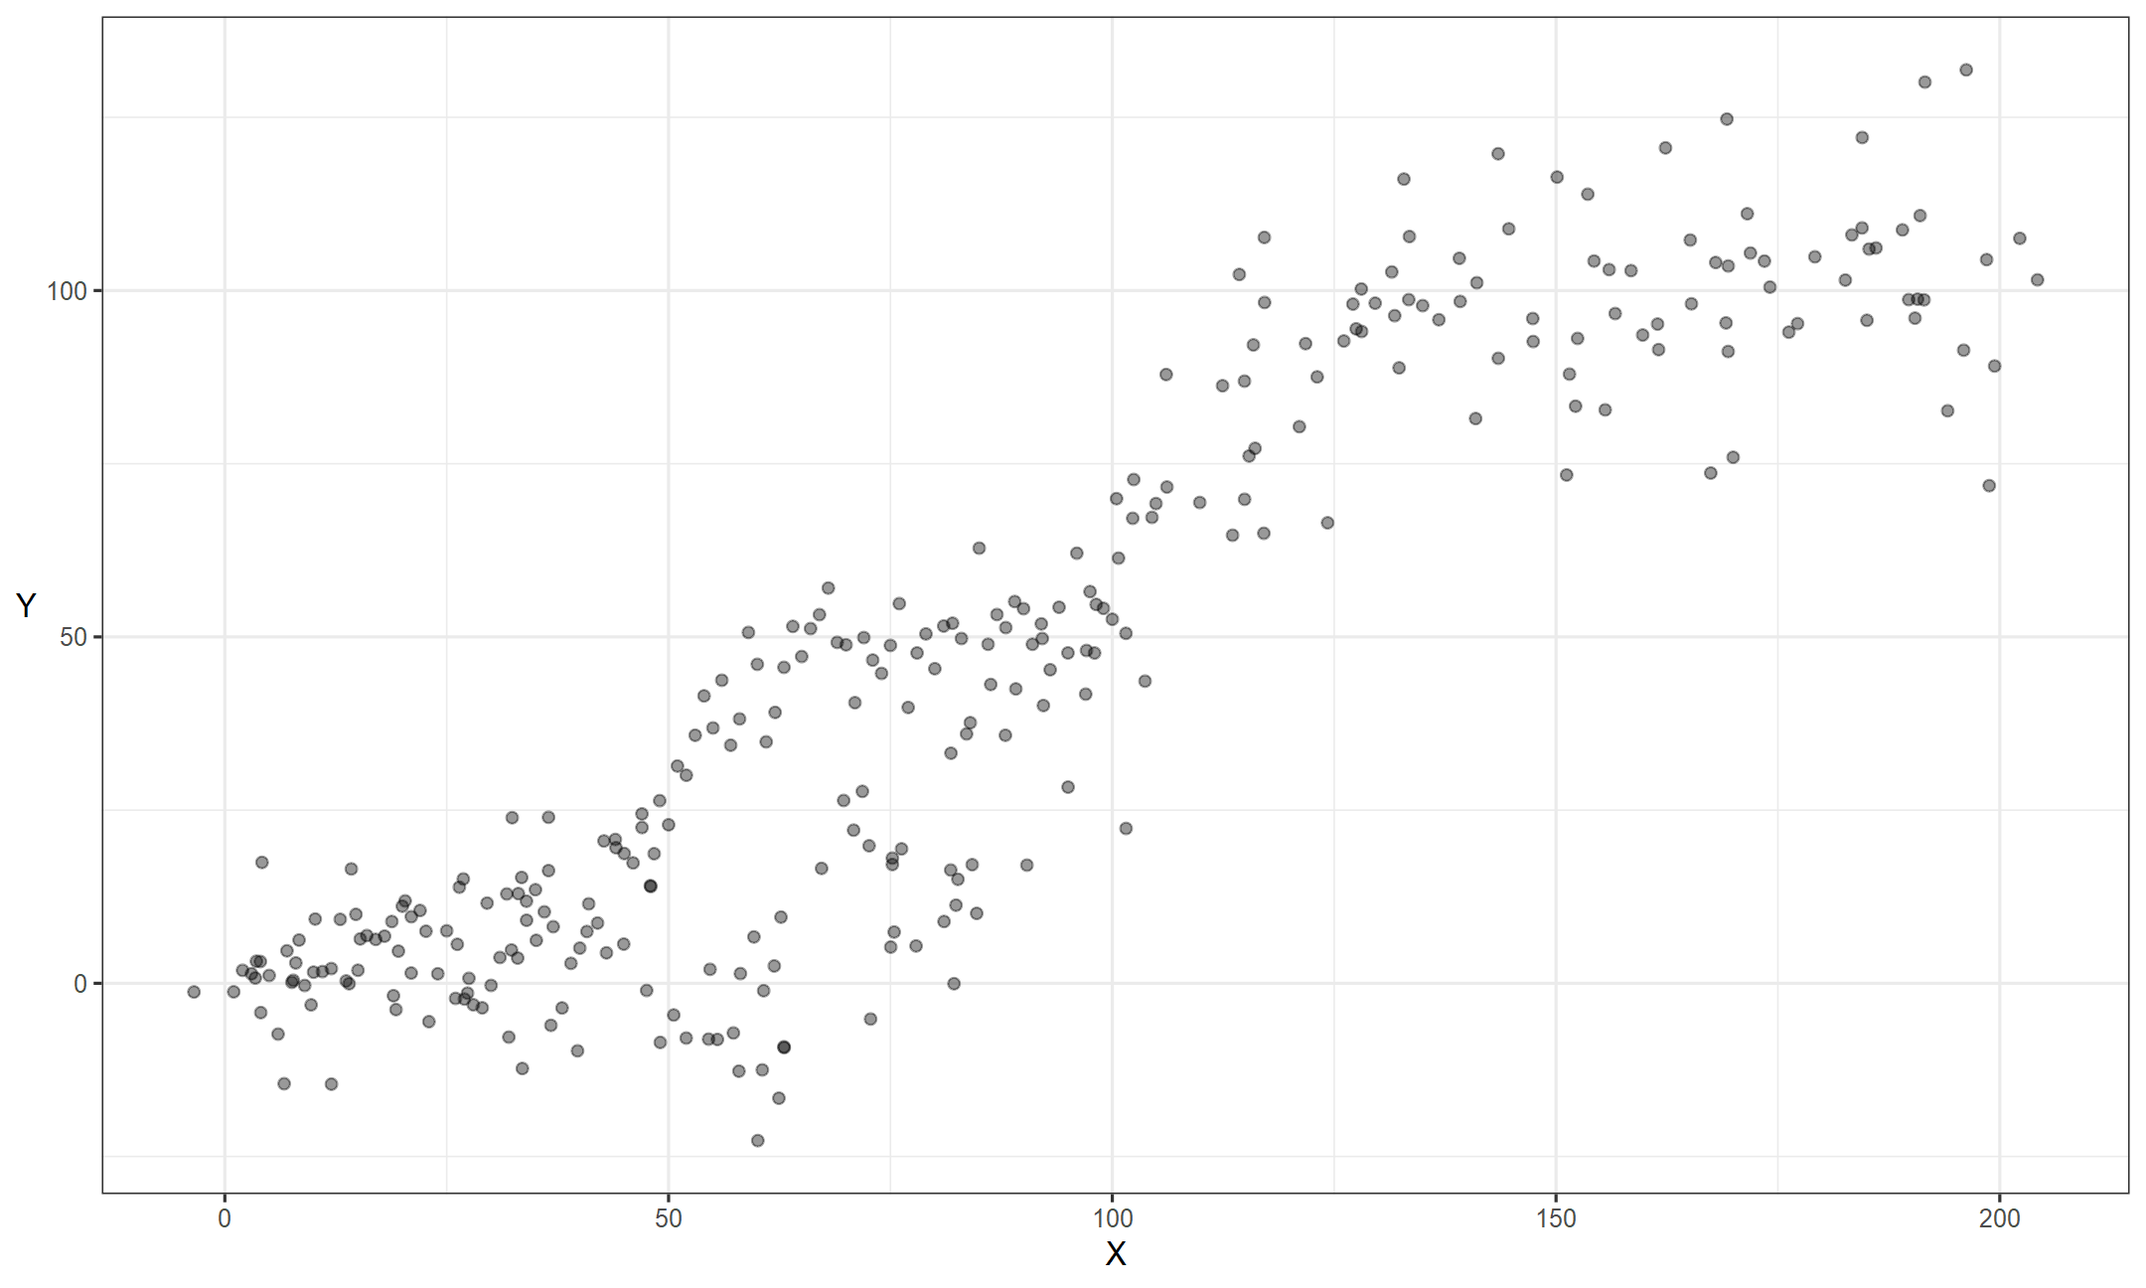
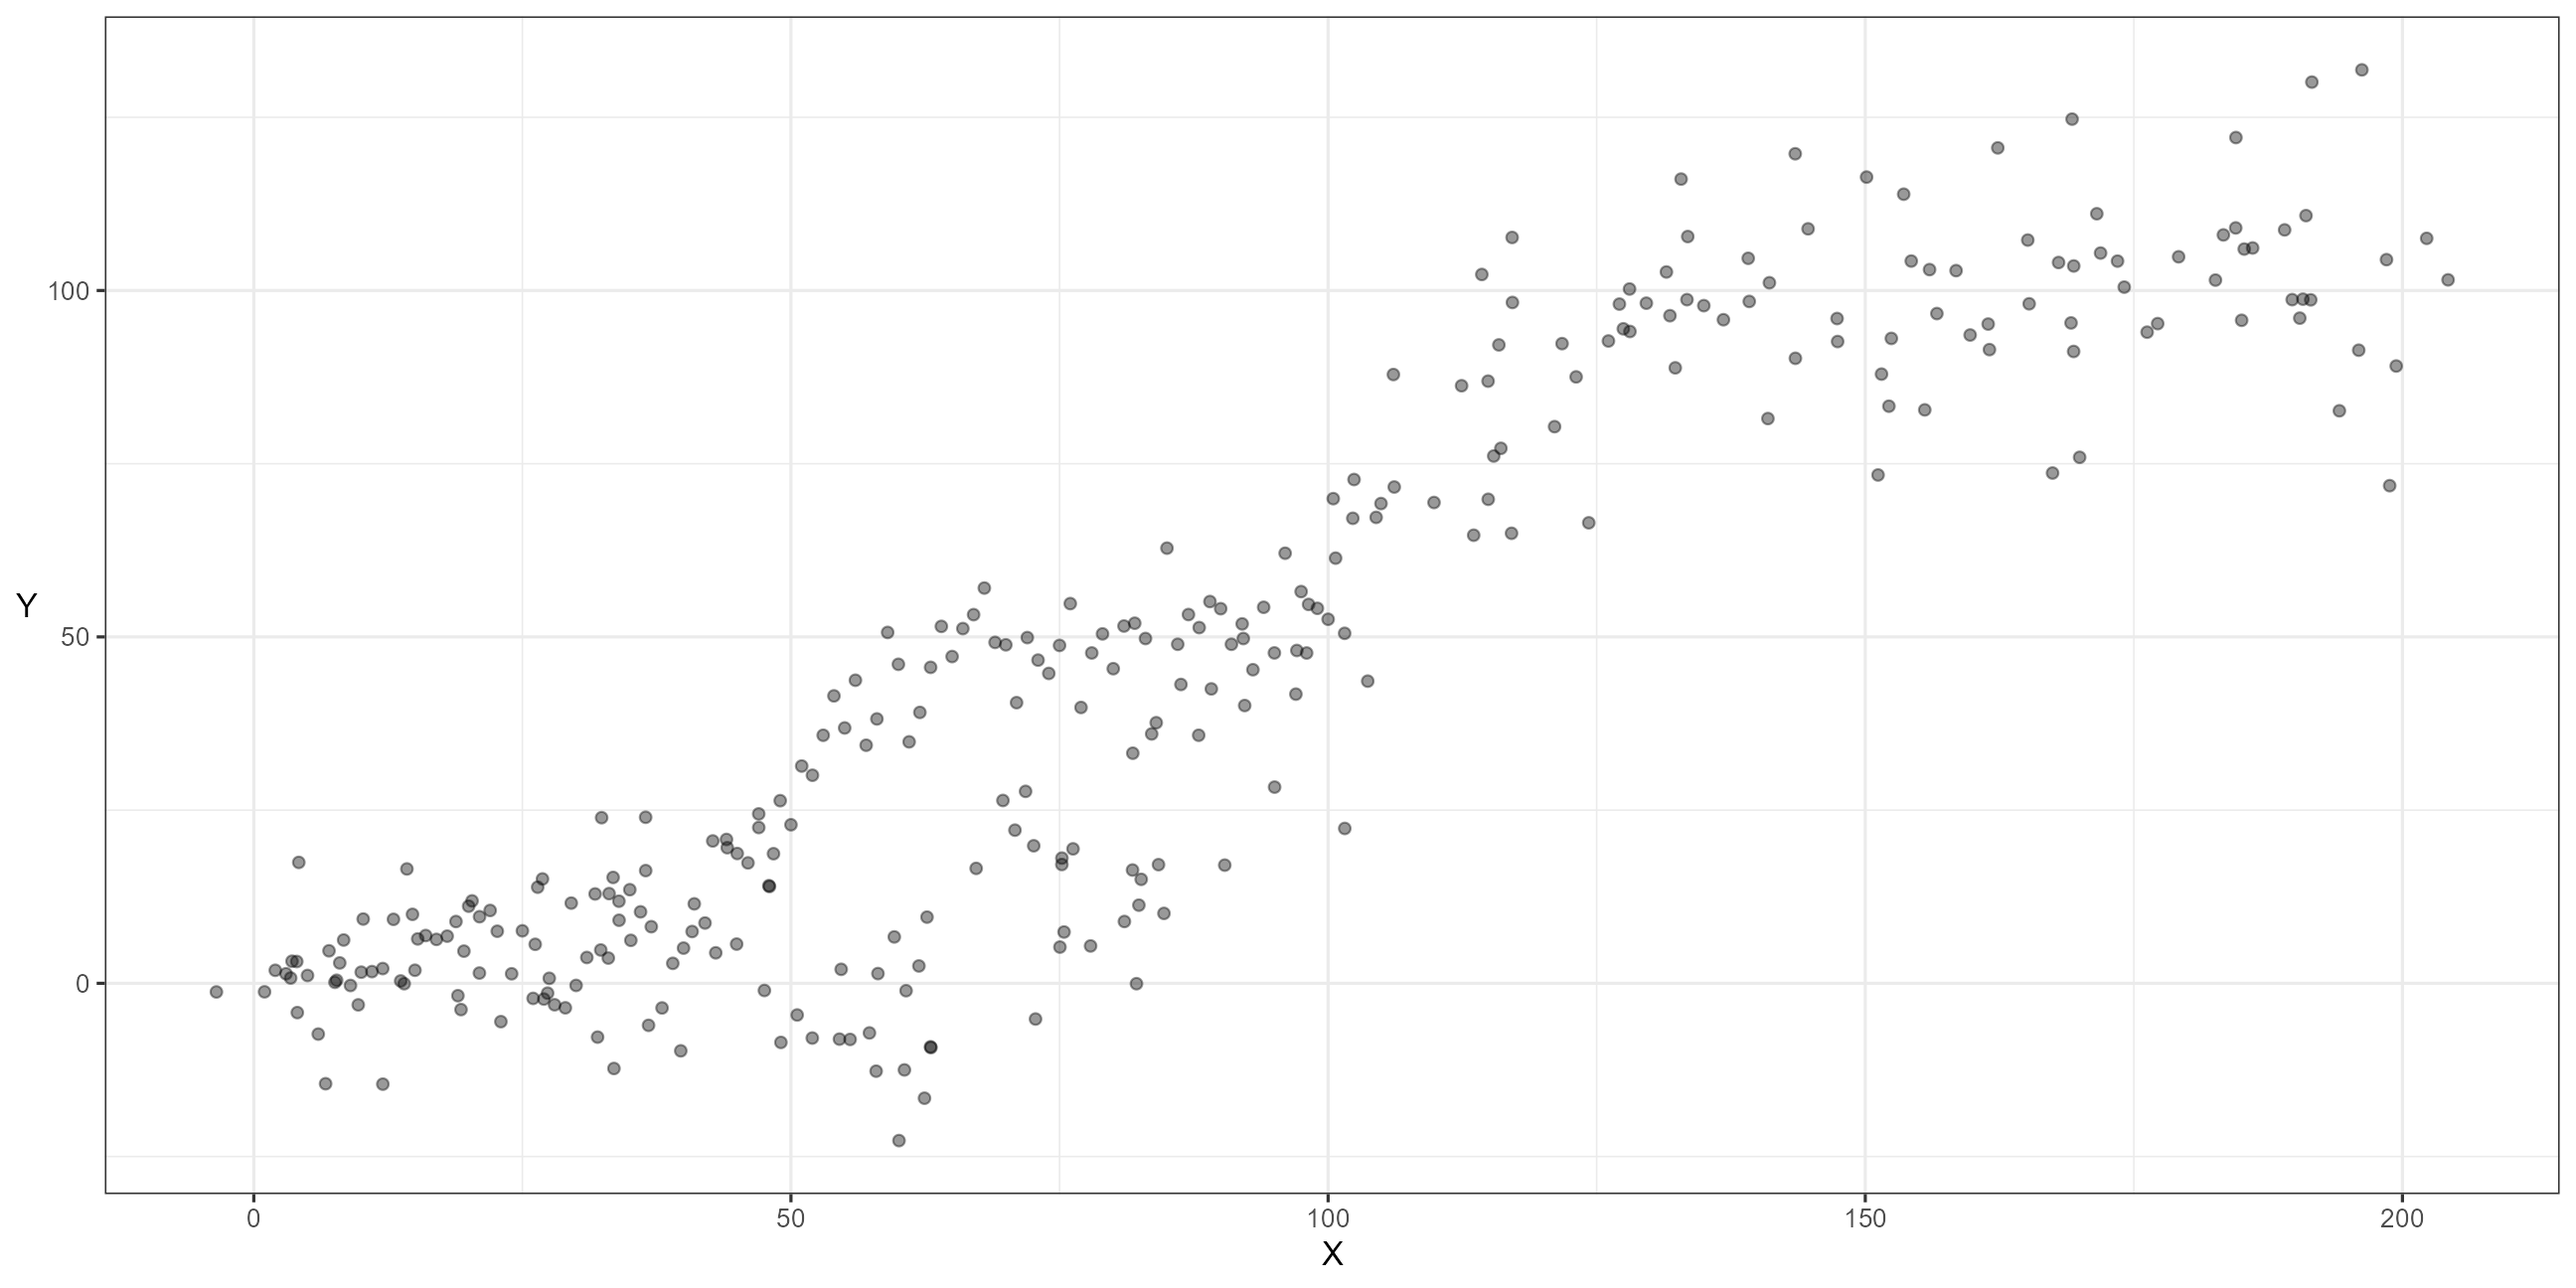
Changed to 16:9, reformatted awkward bits a and fixed example cateogrical graph

diff --git a/Why_mgcv_is_awesome.html b/Why_mgcv_is_awesome.html
@@ -4,7 +4,7 @@
     <title>Why mgcv is awesome</title>
     <meta charset="utf-8" />
     <meta name="author" content="Chris Mainey" />
-    <meta name="date" content="2022-01-27" />
+    <meta name="date" content="2022-09-12" />
     <script src="libs/header-attrs/header-attrs.js"></script>
     <link rel="stylesheet" href="xaringan-themer.css" type="text/css" />
   </head>
@@ -38,9 +38,10 @@
 
 .pull-right[
 
-&lt;img src="man/figures/download.png"&gt;
+&lt;p style="text-align:center;font-weight:bold;"&gt;&lt;img src="man/figures/download.png" style="height:550px;" alt="Picture of Michael Jackson's dance routine for the song 'Smooth Criminal', with the bad dad-joke: 'You've been hit by a smoothed residual'"&gt;
+&lt;br&gt;
+Don't think about it too hard...😉  &lt;/p&gt;
 
-_Don't think about it too hard..._ 😉 
 
 ]
 
@@ -51,14 +52,14 @@ _Don't think about it too hard..._ 😉
 
 + Regression is a method for predicting a variable, `Y`, using another, `X`
 
-&lt;img src="Why_mgcv_is_awesome_files/figure-html/regression1-1.png" width="720" style="display: block; margin: auto;" /&gt;
+&lt;img src="Why_mgcv_is_awesome_files/figure-html/regression1-1.png" width="864" style="display: block; margin: auto;" /&gt;
 ---
 
 # Equation of a straight line (1)
 
 `$$y= \alpha + \beta x + \epsilon$$`
 
-&lt;img src="Why_mgcv_is_awesome_files/figure-html/regression2-1.png" width="720" style="display: block; margin: auto;" /&gt;
+&lt;img src="Why_mgcv_is_awesome_files/figure-html/regression2-1.png" width="864" style="display: block; margin: auto;" /&gt;
 
 
 
@@ -69,36 +70,36 @@ _Don't think about it too hard..._ 😉
 
 `$$y= 2 + 1.5 x + \epsilon$$`
 
-&lt;img src="Why_mgcv_is_awesome_files/figure-html/regression3-1.png" width="720" style="display: block; margin: auto;" /&gt;
+&lt;img src="Why_mgcv_is_awesome_files/figure-html/regression3-1.png" width="864" style="display: block; margin: auto;" /&gt;
 
 
 ---
 
 # What about nonlinear data? (1)
 
-&lt;img src="Why_mgcv_is_awesome_files/figure-html/sig-1.png" width="720" style="display: block; margin: auto;" /&gt;
+&lt;img src="Why_mgcv_is_awesome_files/figure-html/sig-1.png" width="864" style="display: block; margin: auto;" /&gt;
 
 
 ---
 
 # What about nonlinear data? (2)
 
-&lt;img src="Why_mgcv_is_awesome_files/figure-html/cats-1.png" width="720" style="display: block; margin: auto;" /&gt;
+&lt;img src="Why_mgcv_is_awesome_files/figure-html/cats-1.png" width="864" style="display: block; margin: auto;" /&gt;
 ---
 
 # What about nonlinear data? (3)
 
-&lt;img src="Why_mgcv_is_awesome_files/figure-html/cats3-1.png" width="720" style="display: block; margin: auto;" /&gt;
+&lt;img src="Why_mgcv_is_awesome_files/figure-html/cats3-1.png" width="864" style="display: block; margin: auto;" /&gt;
 ---
 
 # What about nonlinear data? (4)
 
-&lt;img src="Why_mgcv_is_awesome_files/figure-html/cats4-1.png" width="720" style="display: block; margin: auto;" /&gt;
+&lt;img src="Why_mgcv_is_awesome_files/figure-html/cats4-1.png" width="864" style="display: block; margin: auto;" /&gt;
 ---
 
 # What about nonlinear data? (5)
 
-&lt;img src="Why_mgcv_is_awesome_files/figure-html/cats5-1.png" width="720" style="display: block; margin: auto;" /&gt;
+&lt;img src="Why_mgcv_is_awesome_files/figure-html/cats5-1.png" width="864" style="display: block; margin: auto;" /&gt;
 ---
 
 # Splines
@@ -106,7 +107,7 @@ _Don't think about it too hard..._ 😉
 + Smooth, piece-wise polynomials, like a flexible strip for drawing curves.
 + 'Knot points' between each section
 
-&lt;img src="Why_mgcv_is_awesome_files/figure-html/gam1-1.png" width="720" style="display: block; margin: auto;" /&gt;
+&lt;img src="Why_mgcv_is_awesome_files/figure-html/gam1-1.png" width="864" style="display: block; margin: auto;" /&gt;
 
 ---
 
@@ -115,11 +116,11 @@ _Don't think about it too hard..._ 😉
 Can be controlled by number of knots `\((k)\)`, or by a penalty `\(\gamma\)`.
 
 .pull-left[
-&lt;img src="Why_mgcv_is_awesome_files/figure-html/knots2-1.png" width="360" style="display: block; margin: auto;" /&gt;
+&lt;img src="Why_mgcv_is_awesome_files/figure-html/knots2-1.png" width="432" style="display: block; margin: auto;" /&gt;
 ]
 
 .pull-right[
-&lt;img src="Why_mgcv_is_awesome_files/figure-html/penalty-1.png" width="360" style="display: block; margin: auto;" /&gt;
+&lt;img src="Why_mgcv_is_awesome_files/figure-html/penalty-1.png" width="432" style="display: block; margin: auto;" /&gt;
 
 ]
 
@@ -207,14 +208,14 @@ summary(my_gam)
 ## Y ~ s(X, bs = "cr")
 ## 
 ## Parametric coefficients:
-##             Estimate Std. Error t value Pr(&gt;|t|)    
-## (Intercept)  43.9659     0.8305   52.94   &lt;2e-16 ***
+##             Estimate Std. Error t value            Pr(&gt;|t|)    
+## (Intercept)  43.9659     0.8305   52.94 &lt;0.0000000000000002 ***
 ## ---
 ## Signif. codes:  0 '***' 0.001 '**' 0.01 '*' 0.05 '.' 0.1 ' ' 1
 ## 
 ## Approximate significance of smooth terms:
-##        edf Ref.df     F p-value    
-## s(X) 6.087  7.143 296.3  &lt;2e-16 ***
+##        edf Ref.df     F             p-value    
+## s(X) 6.087  7.143 296.3 &lt;0.0000000000000002 ***
 ## ---
 ## Signif. codes:  0 '***' 0.001 '**' 0.01 '*' 0.05 '.' 0.1 ' ' 1
 ## 
@@ -236,7 +237,7 @@ gam.check(my_gam)
 ## 
 ## Method: GCV   Optimizer: magic
 ## Smoothing parameter selection converged after 4 iterations.
-## The RMS GCV score gradient at convergence was 1.107369e-05 .
+## The RMS GCV score gradient at convergence was 0.00001107369 .
 ## The Hessian was positive definite.
 ## Model rank =  10 / 10 
 ## 
@@ -255,13 +256,13 @@ gam.check(my_gam)
 gam.check(my_gam)
 ```
 
-&lt;img src="Why_mgcv_is_awesome_files/figure-html/gam3c-1.png" width="720" style="display: block; margin: auto;" /&gt;
+&lt;img src="Why_mgcv_is_awesome_files/figure-html/gam3c-1.png" width="864" style="display: block; margin: auto;" /&gt;
 
 ```
 ## 
 ## Method: GCV   Optimizer: magic
 ## Smoothing parameter selection converged after 4 iterations.
-## The RMS GCV score gradient at convergence was 1.107369e-05 .
+## The RMS GCV score gradient at convergence was 0.00001107369 .
 ## The Hessian was positive definite.
 ## Model rank =  10 / 10 
 ## 
@@ -288,9 +289,9 @@ anova(my_lm, my_gam)
 ## 
 ## Model 1: Y ~ X
 ## Model 2: Y ~ s(X, bs = "cr")
-##   Res.Df   RSS     Df Sum of Sq      F    Pr(&gt;F)    
-## 1 298.00 88154                                      
-## 2 292.91 60613 5.0873     27540 26.161 &lt; 2.2e-16 ***
+##   Res.Df   RSS     Df Sum of Sq      F                Pr(&gt;F)    
+## 1 298.00 88154                                                  
+## 2 292.91 60613 5.0873     27540 26.161 &lt; 0.00000000000000022 ***
 ## ---
 ## Signif. codes:  0 '***' 0.001 '**' 0.01 '*' 0.05 '.' 0.1 ' ' 1
 ```
@@ -356,7 +357,9 @@ https://noamross.github.io/gams-in-r-course/
 <script>var slideshow = remark.create({
 "highlightStyle": "github",
 "highlightLines": true,
-"countIncrementalSlides": false
+"countIncrementalSlides": false,
+"slideNumberFormat": "%current%",
+"ratio": "16:9"
 });
 if (window.HTMLWidgets) slideshow.on('afterShowSlide', function (slide) {
   window.dispatchEvent(new Event('resize'));
@@ -397,6 +400,19 @@ if (window.HTMLWidgets) slideshow.on('afterShowSlide', function (slide) {
     deleted = true;
   });
 })();
+// add `data-at-shortcutkeys` attribute to <body> to resolve conflicts with JAWS
+// screen reader (see PR #262)
+(function(d) {
+  let res = {};
+  d.querySelectorAll('.remark-help-content table tr').forEach(tr => {
+    const t = tr.querySelector('td:nth-child(2)').innerText;
+    tr.querySelectorAll('td:first-child .key').forEach(key => {
+      const k = key.innerText;
+      if (/^[a-z]$/.test(k)) res[k] = t;  // must be a single letter (key)
+    });
+  });
+  d.body.setAttribute('data-at-shortcutkeys', JSON.stringify(res));
+})(document);
 (function() {
   "use strict"
   // Replace <script> tags in slides area to make them executable

diff --git a/xaringan-themer.css b/xaringan-themer.css
@@ -39,6 +39,12 @@ h1, h2, h3 {
 
   padding: 1em 4em 1em 4em;
 }
+
+.remark-slide-content ul, .remark-slide-content li {
+
+  line-height: 1.3;
+}
+
 .remark-slide-content h1 {
     font-size: 50px;
 }
